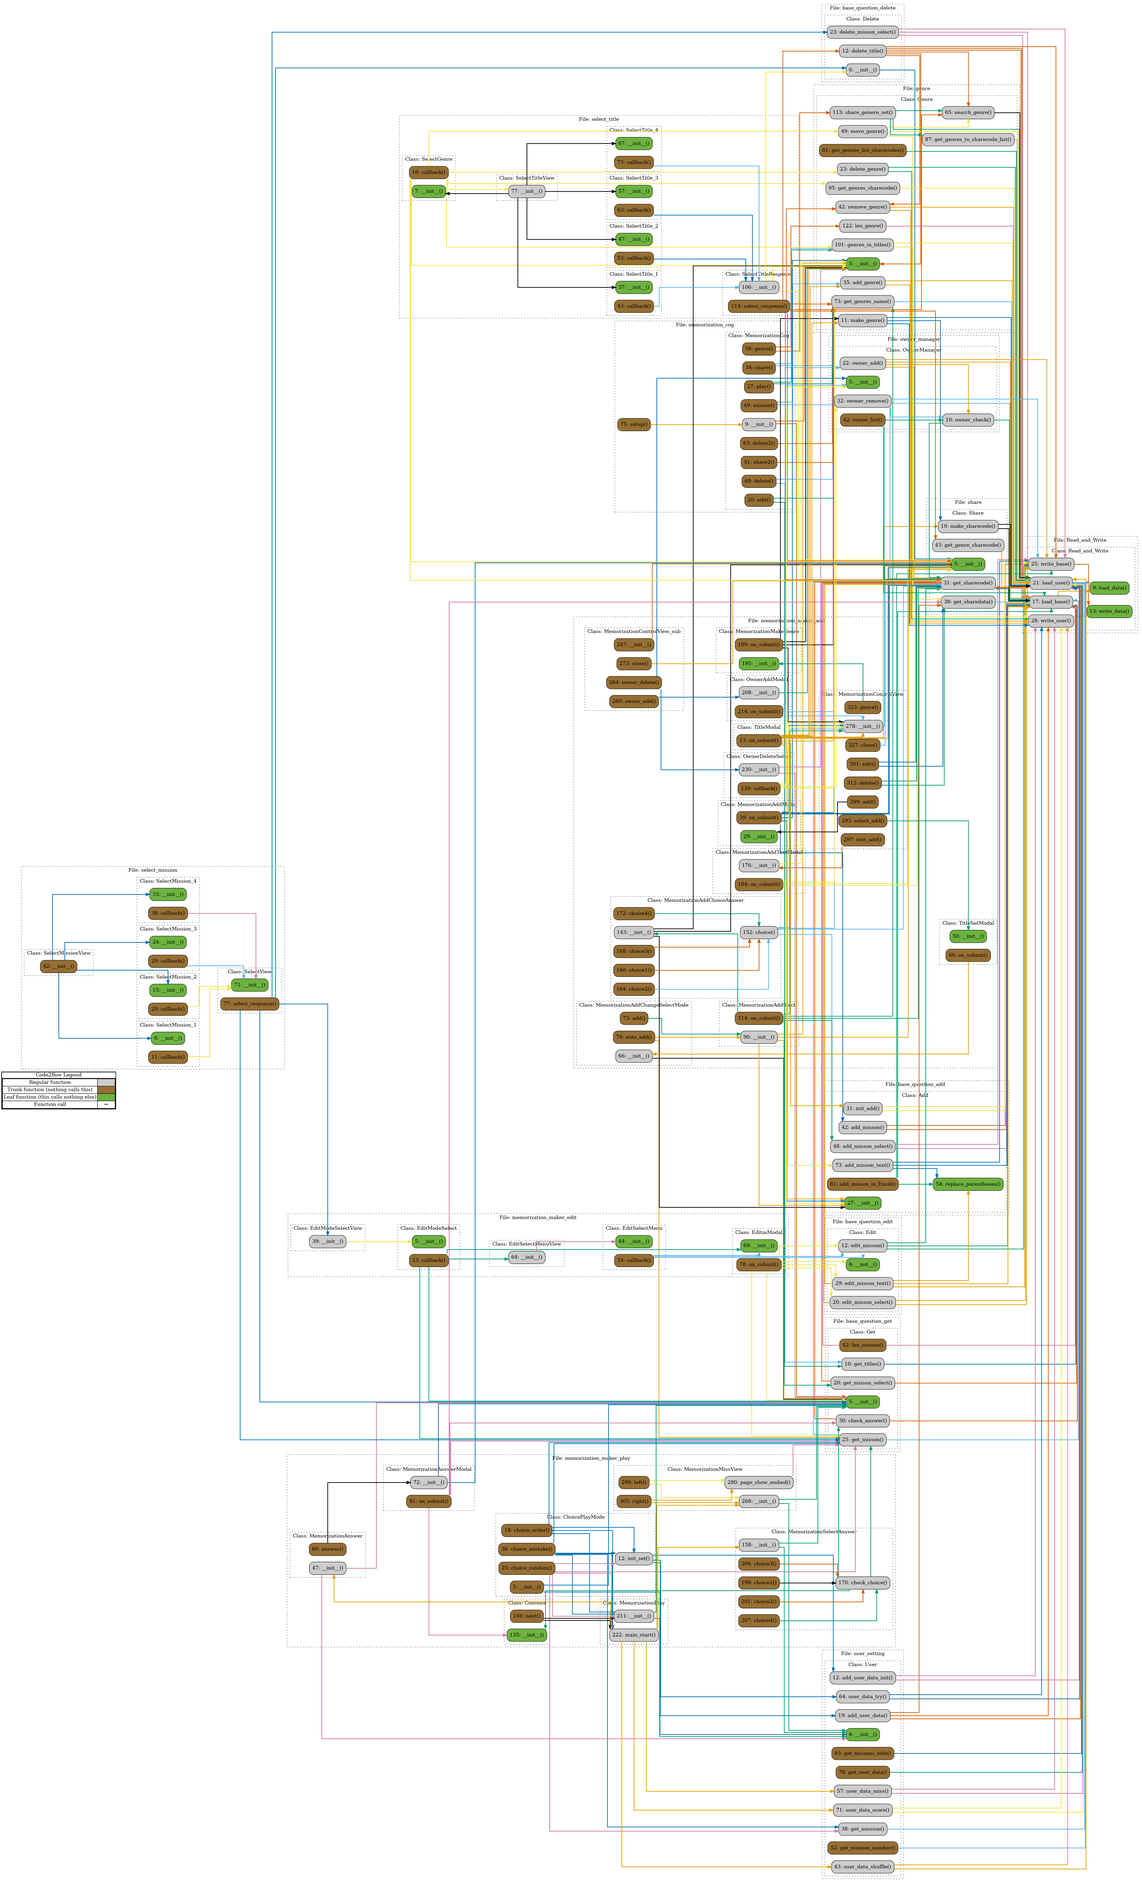
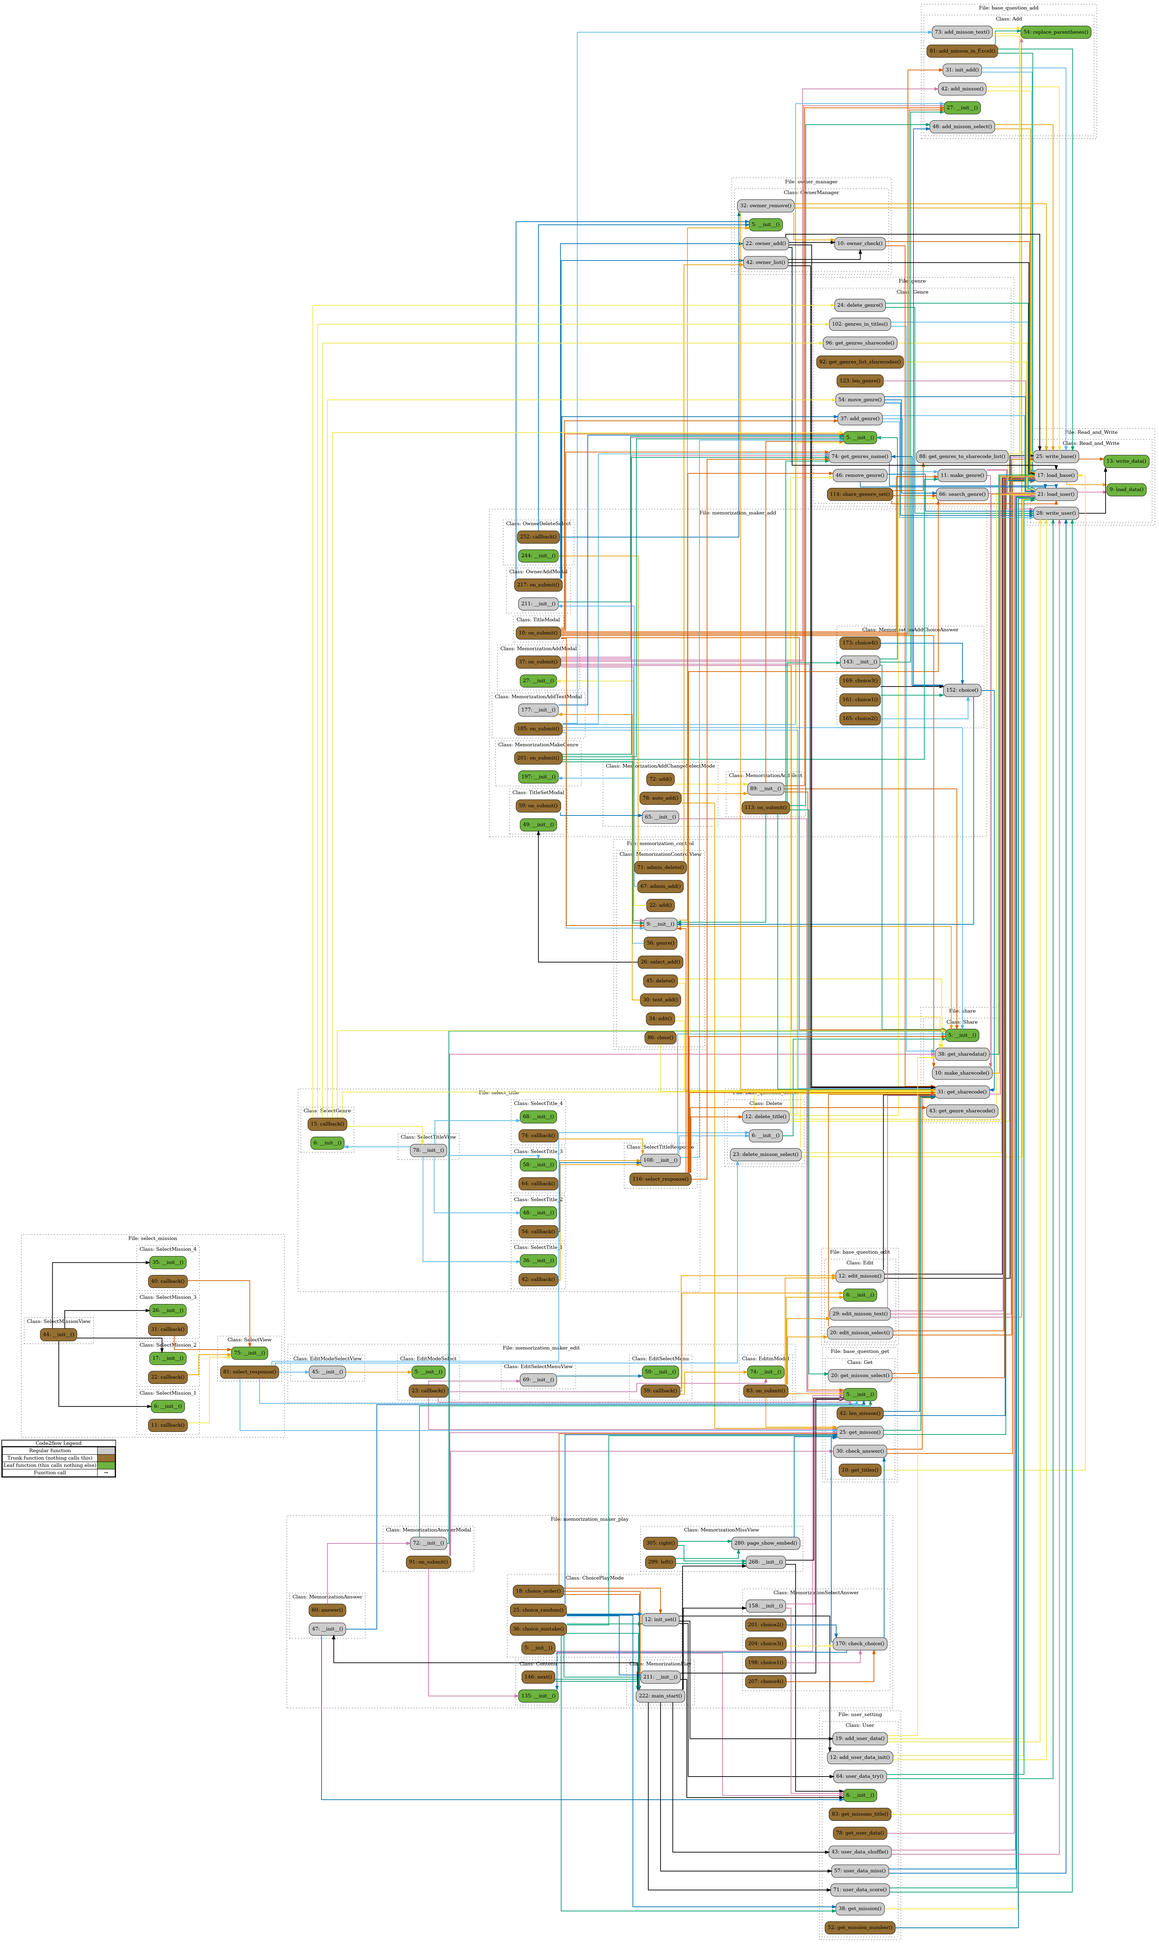
[fix] オーナー管理追加

diff --git a/memorization_discord/memorization_maker_play.py b/memorization_discord/memorization_maker_play.py
@@ -1,31 +1,30 @@
 import discord
-from memorization_maker.inc.package import Get,Share,User
+from memorization_maker.inc.package import Share,User,Get
 
 class ChoicePlayMode(discord.ui.View):
     def __init__(self, sharecode:int):
         self.user = User()
         self.sharecode = sharecode
-        self.gets = Get()
-        self.user = User()
+        self.share = Share()
         super().__init__()
 
-    async def init_set(self):
-        await self.user.add_user_data_init()
-        await self.user.add_user_data(self.sharecode)
-        await self.user.user_data_try(self.sharecode)
+    async def init_set(self,userid):
+        await self.user.add_user_data_init(str(userid))
+        await self.user.add_user_data(str(userid),self.sharecode)
+        await self.user.user_data_try(str(userid),self.sharecode)
         
     @discord.ui.button(label="順番出題", style=discord.ButtonStyle.primary)
-    async def choice_order(self, button: discord.ui.Button, interaction: discord.Interaction):
-        await self.init_set()
-        questions = await self.gets.get_misson(self.sharecode)
+    async def choice_order(self, interaction: discord.Interaction, _:discord.ui.Button):
+        await self.init_set(str(interaction.user.id))
+        questions = await self.share.get_sharedata(self.sharecode)
         question_list = questions["questions"]
         await MemorizationPlay(interaction,self.sharecode,0,question_list,0,[]).main_start()
         
     @discord.ui.button(label="ランダム出題", style=discord.ButtonStyle.primary)
-    async def choice_random(self, button: discord.ui.Button, interaction: discord.Interaction):
-        await self.init_set()
+    async def choice_random(self, interaction: discord.Interaction, _:discord.ui.Button):
+        await self.init_set(str(interaction.user.id))
         questions_user = await self.user.get_mission(str(interaction.user.id),self.sharecode)
-        questions = await self.gets.get_misson(self.sharecode)
+        questions = await self.share.get_sharedata(self.sharecode)
         question_number_list = questions_user["questions_number_list"]
         question_list = []
         for num in question_number_list:
@@ -33,11 +32,11 @@ class ChoicePlayMode(discord.ui.View):
         await MemorizationPlay(interaction,self.sharecode,1,question_list,0,[]).main_start()
     
     @discord.ui.button(label="前回のミス問題出題", style=discord.ButtonStyle.primary)
-    async def choice_mistake(self, button: discord.ui.Button, interaction: discord.Interaction):
-        await self.init_set()
+    async def choice_mistake(self, interaction: discord.Interaction, _:discord.ui.Button):
+        await self.init_set(str(interaction.user.id))
         question_list = []
         questions_user = await self.user.get_mission(str(interaction.user.id),self.sharecode)
-        questions = await self.gets.get_misson(self.sharecode)
+        questions = await self.share.get_sharedata(self.sharecode)
         question_number_list = questions_user["miss_numbers"]
         for num in question_number_list:
             question_list.append(questions["questions"][num])
@@ -57,7 +56,7 @@ class MemorizationAnswer(discord.ui.View):
         super().__init__()
         
     @discord.ui.button(label="回答する", style=discord.ButtonStyle.primary)
-    async def answer(self, button: discord.ui.Button, interaction: discord.Interaction):
+    async def answer(self, interaction: discord.Interaction, _:discord.ui.Button):
         await interaction.response.send_modal(MemorizationAnswerModal(
                     self.sharecode,
                     self.playmode,
@@ -80,16 +79,16 @@ class MemorizationAnswerModal(discord.ui.Modal,title="問題回答"):
         self.share = Share()
         super().__init__()
         if self.question_list[self.counts]["mode"] == 0:
-            self.input = discord.ui.TextInput(placeholder="答え", style=discord.TextStyle.short)
+            self.input = discord.ui.TextInput(label="答え", style=discord.TextStyle.short)
             self.add_item(self.input)
         elif self.question_list[self.counts]["mode"] == 2:
             self.inputs = []
             for num,_ in enumerate(self.question_list[self.counts]["answer"]):
-                self.inputs.append(discord.ui.TextInput(placeholder=f"{num+1}番目の回答", style=discord.TextStyle.short))
+                self.inputs.append(discord.ui.TextInput(label=f"{num+1}番目の回答", style=discord.TextStyle.short))
                 self.add_item(self.inputs[num])
     
     async def on_submit(self, interaction: discord.Interaction):
-        datas = await self.gets.get_misson(self.sharecode)
+        datas = await self.share.get_sharedata(self.sharecode)
         embed = discord.Embed(title=f"{self.counts+1}問目",color=0x00ff00)
         embed.add_field(name="問題",value=self.question_list[self.counts]["question"],inline=False)
         if self.question_list[self.counts]["mode"] == 0:
@@ -143,7 +142,7 @@ class Contenu(discord.ui.View):
         super().__init__()
         
     @discord.ui.button(label="次の問題", style=discord.ButtonStyle.primary)
-    async def next(self, button: discord.ui.Button, interaction: discord.Interaction):
+    async def next(self, interaction: discord.Interaction, _:discord.ui.Button):
         await MemorizationPlay(
             interaction,
             self.sharecode,
@@ -169,7 +168,7 @@ class MemorizationSelectAnswer(discord.ui.View):
 
     async def check_choice(self,num):
         select = self.question_list[self.counts]["select"]
-        title = await self.gets.get_misson(self.sharecode)["title"]
+        title = await self.share.get_sharedata(self.sharecode)["title"]
         ch = await self.gets.check_answer(str(self.interaction.user.id),title,self.counts,select[num-1])
         embed = discord.Embed(title=f"{self.counts+1}問目",color=0x00ff00)
         embed.add_field(name="問題",value=self.question_list[self.counts]["question"],inline=False)
@@ -237,7 +236,7 @@ class MemorizationPlay:
         question = self.question_list[self.counts]["question"]
         embed.add_field(name="問題",value=question,inline=False)
         if self.question_list[self.counts]["mode"] == 0 or self.question_list[self.counts]["mode"] == 2:
-            await self.interaction.response.send_message(embed=embed,
+            await self.interaction.response.edit_message(embed=embed,
                                                          view=MemorizationAnswer(
                                                              self.interaction,
                                                              self.sharecode,
@@ -252,7 +251,7 @@ class MemorizationPlay:
             select = self.question_list[self.counts]["select"]
             for num,selects in enumerate(select):
                 embed.add_field(name=f"選択肢{num+1}",value=selects,inline=False)
-            await self.interaction.response.send_message(embed=embed,
+            await self.interaction.response.edit_message(embed=embed,
                                                          view=MemorizationSelectAnswer(
                                                              self.interaction,
                                                              self.sharecode,
@@ -280,7 +279,7 @@ class MemorizationMissView(discord.ui.View):
     async def page_show_embed(self):
         embed = discord.Embed(title=f"間違った問題 : {self.page+1}ページ目",color=0x00ff00)
         for num,miss_num in enumerate(self.miss_list[self.page]):
-            datas = await self.gets.get_misson(self.sharecode)
+            datas = await self.share.get_sharedata(self.sharecode)
             if datas["questions"][miss_num]["mode"] == 0:
                 embed.add_field(name=f"{num+1}問目",value=f"問題:{datas['questions'][miss_num]['question']}\n解答:{datas['questions'][miss_num]['answer']}",inline=False)
             elif datas["questions"][miss_num]["mode"] == 1:
@@ -296,13 +295,13 @@ class MemorizationMissView(discord.ui.View):
         return embed
 
     @discord.ui.button(label="左ページ", style=discord.ButtonStyle.primary)
-    async def left(self, button: discord.ui.Button, interaction: discord.Interaction):
+    async def left(self, interaction: discord.Interaction, _:discord.ui.Button):
         if not self.page == 0:
             self.page -= 1
         embed = await self.page_show_embed()
         await interaction.response.edit_message(embed=embed,view=MemorizationMissView(self.sharecode,self.miss_number_list,self.page))
     @discord.ui.button(label="右ページ", style=discord.ButtonStyle.primary)
-    async def right(self, button: discord.ui.Button, interaction: discord.Interaction):
+    async def right(self, interaction: discord.Interaction, _:discord.ui.Button):
         if not self.page == len(self.miss_list) - 1:
             self.page += 1
         embed = await self.page_show_embed()

diff --git a/memorization_discord/memorization_control.py b/memorization_discord/memorization_control.py
@@ -1,10 +1,10 @@
 import discord
 import memorization_discord.select_mission as select_mission
 import memorization_discord.select_title as select_title
-from memorization_maker.src.owner_manager import OwnerManager
 from memorization_maker.src.share import Share
+from memorization_maker.src.owner_manager import OwnerManager
 from memorization_discord.memorization_maker_add import MemorizationAddModal,MemorizationAddTextModal,TitleSetModal,MemorizationMakeGenre,OwnerAddModal,OwnerDeleteSelect
-    
+        
 class MemorizationControlView(discord.ui.View):
     def __init__(self,title:str,genres:list):
         super().__init__()
@@ -13,6 +13,8 @@ class MemorizationControlView(discord.ui.View):
         self.share = Share()
         self.select_mission = select_mission
         self.select_title = select_title
+        self.owner = OwnerManager()
+        
         self.genre_list = genres
         self.add_item(self.select_title.SelectGenre(genres,0,0,title))
 
@@ -28,7 +30,7 @@ class MemorizationControlView(discord.ui.View):
     async def text_add(self, interaction: discord.Interaction, _:discord.ui.Button):
         await interaction.response.send_modal(MemorizationAddTextModal(self.title))
 
-    @discord.ui.button(label="問題編集", style=discord.ButtonStyle.grey)
+    @discord.ui.button(label="問題編集", style=discord.ButtonStyle.green)
     async def edit(self, interaction: discord.Interaction, _:discord.ui.Button):
         sharecode = await self.share.get_sharecode(self.title)
         data = await self.share.get_sharedata(sharecode)
@@ -39,7 +41,7 @@ class MemorizationControlView(discord.ui.View):
         embed = discord.Embed(title="問題編集", color=0x00ff00)
         await interaction.response.send_message(embed=embed,view=self.select_mission.SelectMissionView(self.title,missions_question,1), ephemeral=True)
 
-    @discord.ui.button(label="問題削除", style=discord.ButtonStyle.grey)
+    @discord.ui.button(label="問題削除", style=discord.ButtonStyle.green)
     async def delete(self, interaction: discord.Interaction, _:discord.ui.Button):
         sharecode = await self.share.get_sharecode(self.title)
         data = await self.share.get_sharedata(sharecode)
@@ -54,13 +56,32 @@ class MemorizationControlView(discord.ui.View):
     async def genre(self, interaction: discord.Interaction, _:discord.ui.Button):
         await interaction.response.send_modal(MemorizationMakeGenre())
 
-    @discord.ui.button(label="ジャンル削除", style=discord.ButtonStyle.grey)
+    @discord.ui.button(label="ジャンル削除", style=discord.ButtonStyle.blurple)
     async def genre_delete(self, interaction: discord.Interaction, _:discord.ui.Button):
         embed = discord.Embed(title="選択してください",description="")
         view = discord.ui.View()
         view.add_item(self.select_title.SelectGenre(self.genre_list,3,0,self.title))
         await interaction.response.send_message(embed=embed, view=view, ephemeral=True)
         
+    @discord.ui.button(label="管理者権限追加", style=discord.ButtonStyle.grey)
+    async def admin_add(self, interaction: discord.Interaction, _: discord.ui.Button):
+        await interaction.response.send_modal(OwnerAddModal(self.title))
+    
+    @discord.ui.button(label="管理者権限削除", style=discord.ButtonStyle.grey)
+    async def admin_delete(self, interaction: discord.Interaction, _:discord.ui.Button):
+        guild = interaction.guild
+        owner_id_list:list = await self.owner.owner_list(str(interaction.user.id),self.title)
+        owner_name:list = []
+        owner_id_list.remove(str(interaction.user.id))
+        for owner_id in owner_id_list:
+            owner = guild.get_member(int(owner_id))
+            owner_name.append(owner.name)
+        if len(owner_name) == 0:
+            return await interaction.response.send_message("管理者が他にいないため、削除できません", ephemeral=True)
+        view = discord.ui.View()
+        view.add_item(OwnerDeleteSelect(self.title,owner_id_list,owner_name))
+        await interaction.response.send_message("管理者を選択してください",view=view, ephemeral=True)
+    
     @discord.ui.button(label="終了", style=discord.ButtonStyle.red)
     async def close(self, interaction: discord.Interaction, _:discord.ui.Button):
         sharecode = await self.share.get_sharecode(self.title)

diff --git a/memorization_discord/memorization_maker_add.py b/memorization_discord/memorization_maker_add.py
@@ -216,35 +216,41 @@ class OwnerAddModal(discord.ui.Modal, title="オーナー追加"):
         self.add_item(self.owner_input)
     async def on_submit(self, interaction: discord.Interaction):
         owner = OwnerManager()
-        data = self.owner_input.value
+        data = int(self.owner_input.value) if self.owner_input.value.isdigit() else str(self.owner_input.value)
         #型判別 int or str
+        ownerid_list = await owner.owner_list(str(interaction.user.id),self.title)
+        guild = interaction.guild
         if isinstance(data,int):
+            try:
+                member = guild.get_member(data)
+            except:
+                return await interaction.response.send_message("存在しないユーザーIDです",ephemeral=True)
+            if data in ownerid_list:return await interaction.response.send_message("既にオーナーに追加されています",ephemeral=True)
             await owner.owner_add(str(interaction.user.id),self.title,str(data))
+            await self.genre.add_genre(str(data),self.title,"default")
         elif isinstance(data,str):
-            
-            await owner.owner_add(str(interaction.user.id),self.title,str(data))
-            
-        await owner.owner_add(str(interaction.user.id),self.title,str(self.owner_input.value))
-        from memorization_discord.memorization_control import MemorizationControlView
+            try:
+                member = discord.utils.find(lambda m: m.name == str(data), guild.members)
+                userid = str(member.id)
+            except:
+                return await interaction.response.send_message("存在しないユーザー名です",ephemeral=True)
+            if userid in ownerid_list:return await interaction.response.send_message("既にオーナーに追加されています",ephemeral=True)
+            await owner.owner_add(str(interaction.user.id),self.title,str(userid))
+            await self.genre.add_genre(str(userid),self.title,"default")
 
-        embed = discord.Embed(title="問題追加", color=0x00ff00)
-        genre_list = await self.genre.get_genres_name(str(interaction.user.id))
-        await interaction.response.edit_message(embed=embed,view=MemorizationControlView(self.title,genre_list))
+        await interaction.response.send_message(content=f"追加しました",ephemeral=True)
 
 class OwnerDeleteSelect(discord.ui.Select):
-    def __init__(self, intraction:discord.Interaction,title,owners:list,usernames:list):
+    def __init__(self, title, owner_id_list, owner_name):
+        options = [
+            discord.SelectOption(label=name, value=str(owner_id))
+            for owner_id, name in zip(owner_id_list, owner_name)
+        ]
+        super().__init__(placeholder="削除する管理者を選択してください", min_values=1, max_values=1, options=options)
         self.title = title
-        self.get = Get()
-        self.genre = Genre()
-        self.options = []
-        for owner in owners:
-            if owner != str(intraction.user.id):
-                self.options.append(discord.SelectOption(label=usernames,value=owner))
-        super().__init__(placeholder="オーナーを選択してください", options=self.options, row=1, min_values=1, max_values=1)
+
     async def callback(self, interaction: discord.Interaction):
         owner = OwnerManager()
         from memorization_discord.memorization_control import MemorizationControlView
         await owner.owmer_remove(str(interaction.user.id),self.title,self.values[0])
-        embed = discord.Embed(title="問題追加", color=0x00ff00)
-        genre_list = await self.genre.get_genres_name(str(interaction.user.id))
-        await interaction.response.edit_message(embed=embed,view=MemorizationControlView(self.title,genre_list))
+        await interaction.response.edit_message(content="削除しました",view=None)

diff --git a/memorization_maker/src/owner_manager.py b/memorization_maker/src/owner_manager.py
@@ -21,7 +21,7 @@ class OwnerManager:
         
     async def owner_add(self,user_id:str,title:str,_target_id:str):
         num_id = str(user_id)
-        if self.owner_check(num_id,title):return False
+        if await self.owner_check(num_id,title):return False
         target_id = str(_target_id)
         self.base_data:dict = await self.rw.load_base()
         sharecode = await self.share.get_sharecode(title)
@@ -31,7 +31,7 @@ class OwnerManager:
     
     async def owmer_remove(self,user_id:str,title:str,_target_id:str):
         num_id = str(user_id)
-        if self.owner_check(num_id,title):return False
+        if await self.owner_check(num_id,title):return False
         target_id = str(_target_id)
         self.base_data:dict = await self.rw.load_base()
         sharecode = await self.share.get_sharecode(title)
@@ -41,7 +41,7 @@ class OwnerManager:
     
     async def owner_list(self,user_id:str,title:str):
         num_id = str(user_id)
-        if self.owner_check(num_id,title):return False
+        if await self.owner_check(num_id,title):return False
         self.base_data:dict = await self.rw.load_base()
         sharecode = await self.share.get_sharecode(title)
         return self.base_data["memorization"][sharecode]["onwer"]

diff --git a/memorization_maker/src/genre.py b/memorization_maker/src/genre.py
@@ -37,7 +37,8 @@ class Genre:
     async def add_genre(self,user_id:str,genre_title:str,sharecode:int):
         num_id = str(user_id)
         self.user_data:dict = await self.rw.load_user()
-        if genre_title not in self.user_data["genre"][num_id].keys():return False
+        if genre_title not in self.user_data["genre"][num_id].keys():
+            await self.make_genre(user_id,genre_title)
         self.user_data["genre"][num_id][genre_title]["sharecodes"].append(sharecode)
         await self.rw.write_user(self.user_data)
         return True

diff --git a/memorization_maker/src/base_question_get.py b/memorization_maker/src/base_question_get.py
@@ -26,7 +26,7 @@ class Get:
         self.base_data:dict = await self.rw.load_base()
         sharecode = await self.share.get_sharecode(title)
         return self.base_data["memorization"][sharecode]
-    
+        
     async def check_answer(self,title:str,select_len_number:int,answer:str,text_question_number:int = None):
         self.base_data:dict = await self.rw.load_base()
         sharecode = await self.share.get_sharecode(title)

diff --git a/memorization_maker/src/user_setting.py b/memorization_maker/src/user_setting.py
@@ -24,7 +24,6 @@ class User:
         #listを1 2 3 ・・・と番号を振る
         questions_number_list:list = [i for i in range(len(missondata["questions"]))]
         #listをシャッフル
-        random.shuffle(questions_number_list)
         self.user_data[num_id].setdefault(sharecode,{
             "title":missondata["title"],
             "questions_number_list":questions_number_list,

diff --git a/memorization_discord/select_title.py b/memorization_discord/select_title.py
@@ -78,7 +78,6 @@ class SelectTitleView(discord.ui.View):
     def __init__(self,genres:list,titles:list,modes:int):
         super().__init__()
         self.modes = modes
-        print(titles)
         #25個ずつに分ける
         self.options_1 = []
         self.options_2 = []
